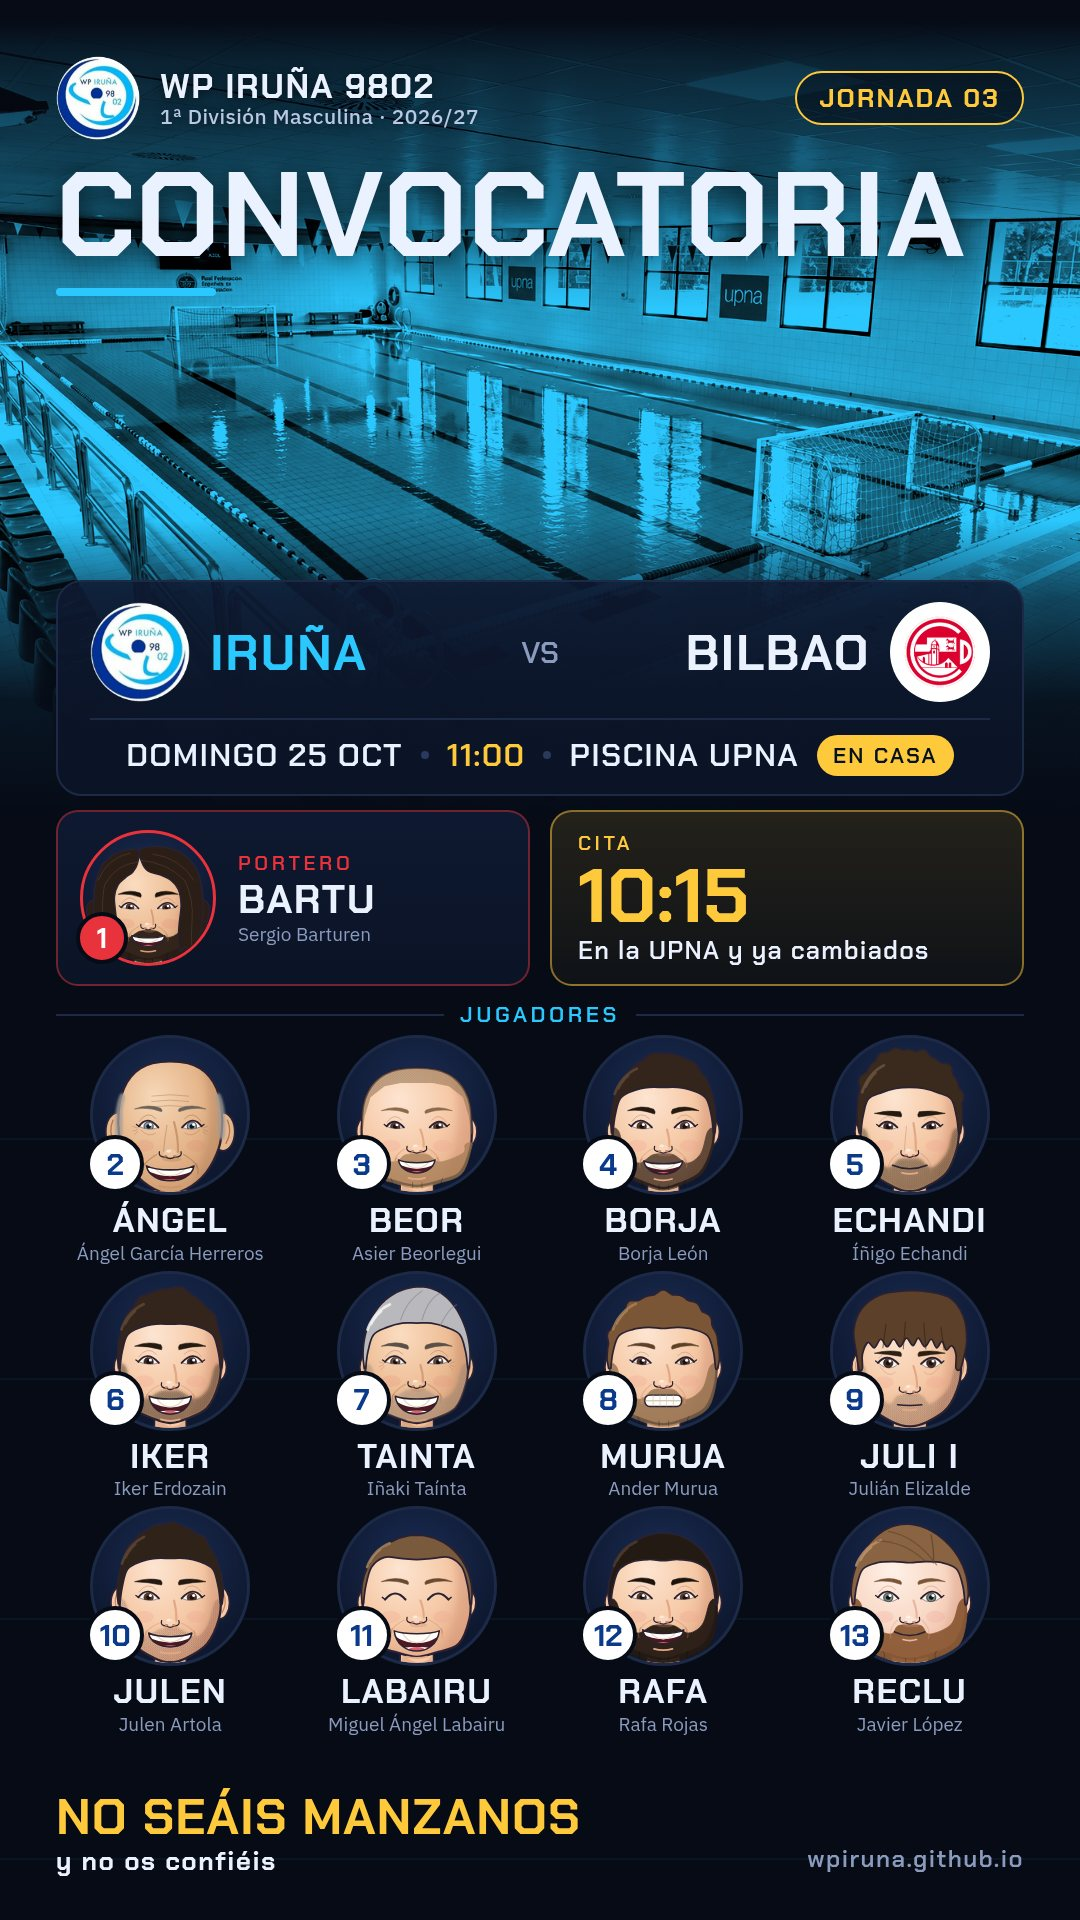
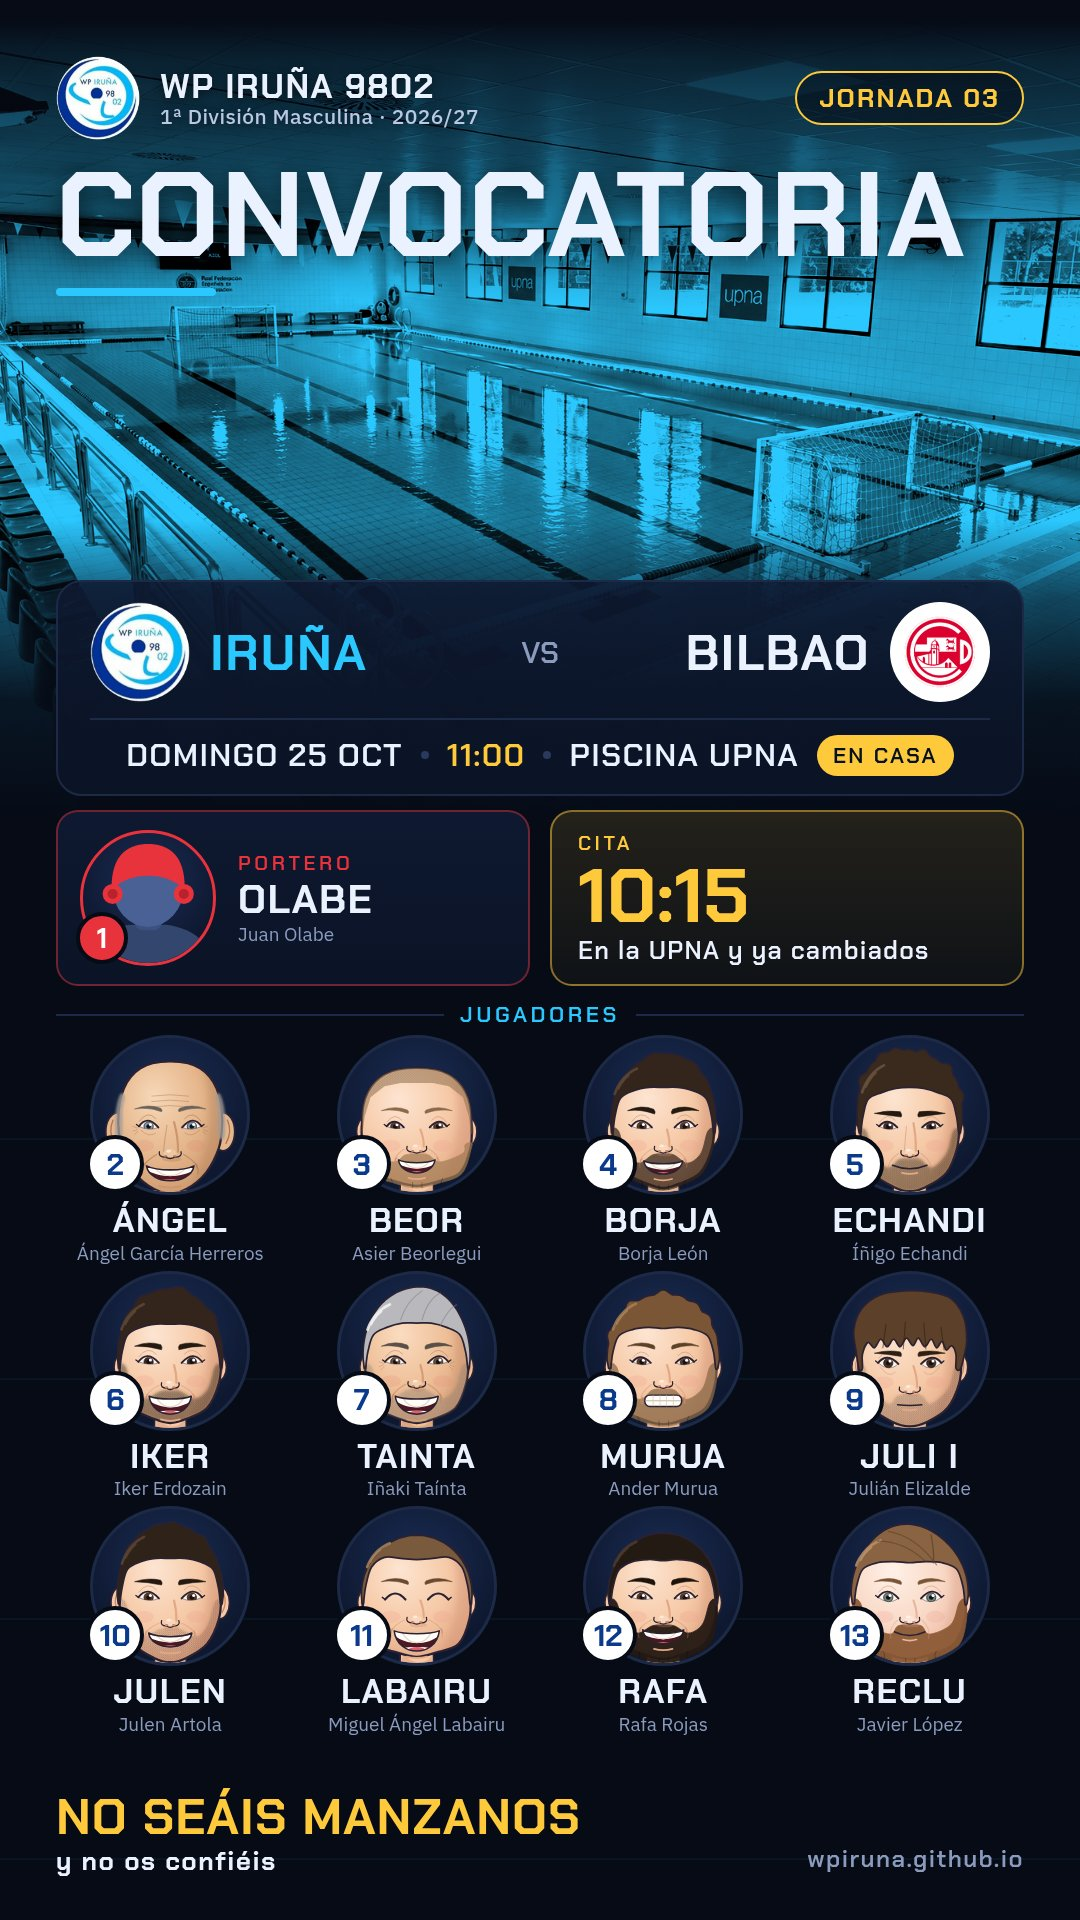
Convocatoria del Iruña – Bilbao: Juan Olabe de portero en lugar de Bartu, que está de baja
Claude-Session: https://claude.ai/code/session_01Efqt4N63J588J3tHv25Kfm

Changed region(s): [[0.0917, 0.4375, 0.3361, 0.5]]

diff --git a/data/datos.js b/data/datos.js
@@ -148,7 +148,7 @@ window.DATOS = {
       cronica: { titulo: "Iruña 21, Bilbao 10: festival en la UPNA, con manzanas de postre",
                  texto: "Hay domingos en los que el waterpolo se pone serio y domingos como el de hoy. A los 20 segundos Julen ya había estrenado el marcador y, aunque el Bilbao empató enseguida, el primer cuarto se cerró 6-3 con Iker clavando un penalti a ocho segundos de la bocina. Al descanso, 10-4, y en la grada de la UPNA ya se hablaba más del vermú que del partido.\n\nAtrás, Juan Olabe volvió a ponerse el gorro 1 y el Bilbao se encontró con un muro: falló un penalti con 6-3 y solo sacó provecho de 5 de sus 13 superioridades. Mientras tanto, arriba, el Iruña se marcó un 9-1 entre el 5-3 y el 14-4 que dejó el partido visto para sentencia antes de acabar el tercer cuarto.\n\nLo de los goles fue un reparto de los que gustan: diez goleadores distintos. Tainta y Labairu firmaron cuatro cada uno (tres de Labairu en el último cuarto, que es cuando se cobran las horas extra) y Julen hizo tres. Echandi estrenó su cuenta con el Iruña por partida doble, y Reclu, el de la clarísima de Askartza, se quitó la espina con su primer gol de la temporada, de penalti y sin temblar. Cuatro penaltis a favor, cuatro dentro: dos de Iker, uno de Echandi y otro de Reclu.\n\nPero esto es el Iruña, y ni ganando de once nos libramos del Manzano. El vestuario reparte manzanadas a Murua, por coleccionar tres expulsiones y ver el final desde el banquillo; a Tainta y a Juli I, por regalarle el balón al contrario como quien reparte caramelos en la cabalgata; a Rafa, por no sacársela bien; y a Julen, que a un metro del portero decidió que lo más sensato era pasársela a él. Con esto Tainta sale del partido como máximo goleador del equipo, empatado con Beor, y líder del Manzano del año. Hay que valer.\n\nPrimera goleada de la temporada, 6 puntos, sextos en la tabla y la diferencia de goles otra vez en positivo. El sábado toca Vitoria: Lautada, a las 16:30 en Mendizorrotza. Que alguien guarde las manzanas para el viaje." },
       cartel: { foto: "img/carteles/j03-manzanos.jpg", encuadre: "50% 30%", lema: "No seáis manzanos\ny no os confiéis" },
-      convocatoria: "img/convocatorias/j03-bilbao.jpg" },
+      convocatoria: "img/convocatorias/j03-bilbao.jpg?v=2" },
     { id: "p04", fecha: "2026-10-31", hora: "16:30", local: "lautada",  visitante: "iruna",    piscina: "Complejo Deportivo Mendizorrotza", resultado: null,
       cartel: { foto: "img/carteles/j04.jpg", encuadre: "15% 50%" } },
     { id: "p05", fecha: "2026-11-08", hora: "10:30", local: "iruna",    visitante: "np",       piscina: "UPNA", resultado: null,

diff --git a/index.html b/index.html
@@ -11,7 +11,7 @@
   <link rel="preconnect" href="https://fonts.googleapis.com">
   <link rel="preconnect" href="https://fonts.gstatic.com" crossorigin>
   <link href="https://fonts.googleapis.com/css2?family=Chakra+Petch:wght@500;600;700&family=IBM+Plex+Sans:wght@400;500;600;700&display=swap" rel="stylesheet">
-  <link rel="stylesheet" href="css/styles.css?v=20261025-2">
+  <link rel="stylesheet" href="css/styles.css?v=20261025-3">
   <style>:root { padding-top: env(safe-area-inset-top, 0px); }</style>
 </head>
 <body>
@@ -258,7 +258,7 @@
       document.head.appendChild(gc);
     }
   </script>
-  <script src="data/datos.js?v=20261025-2"></script>
-  <script src="js/app.js?v=20261025-2"></script>
+  <script src="data/datos.js?v=20261025-3"></script>
+  <script src="js/app.js?v=20261025-3"></script>
 </body>
 </html>
